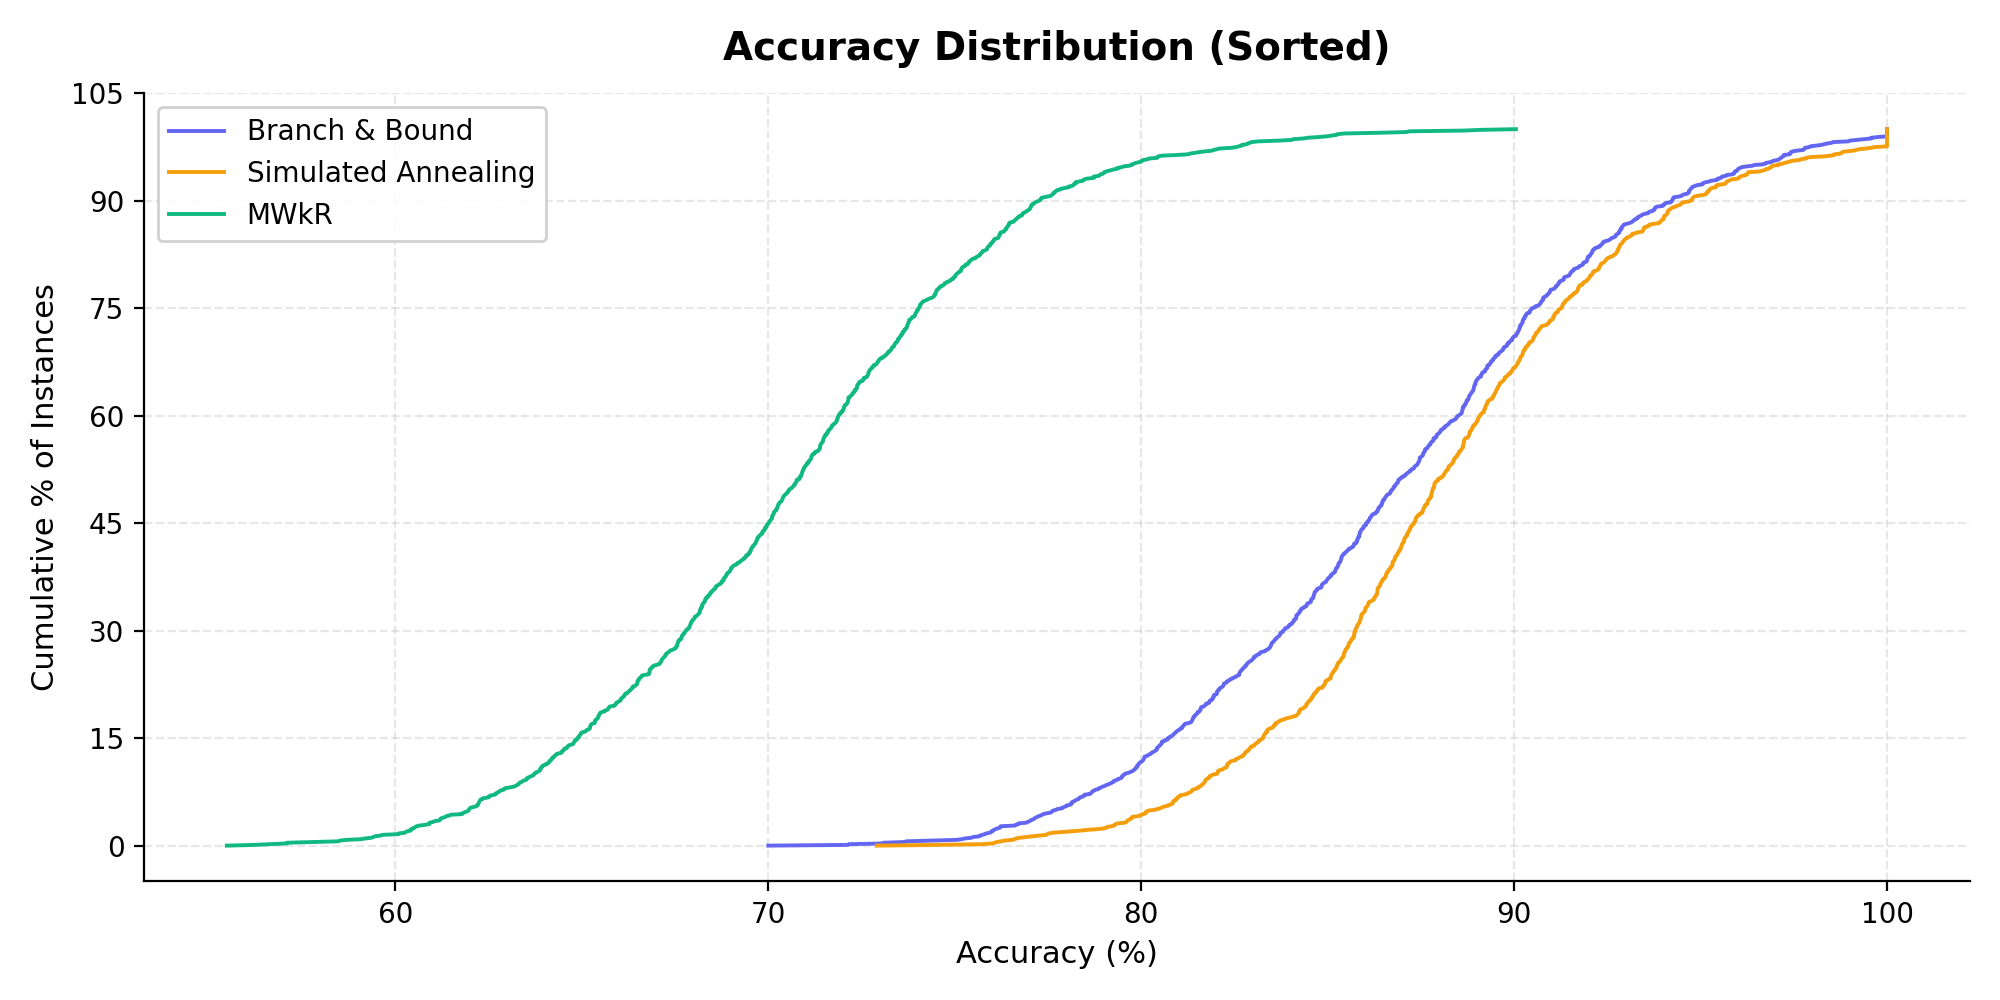
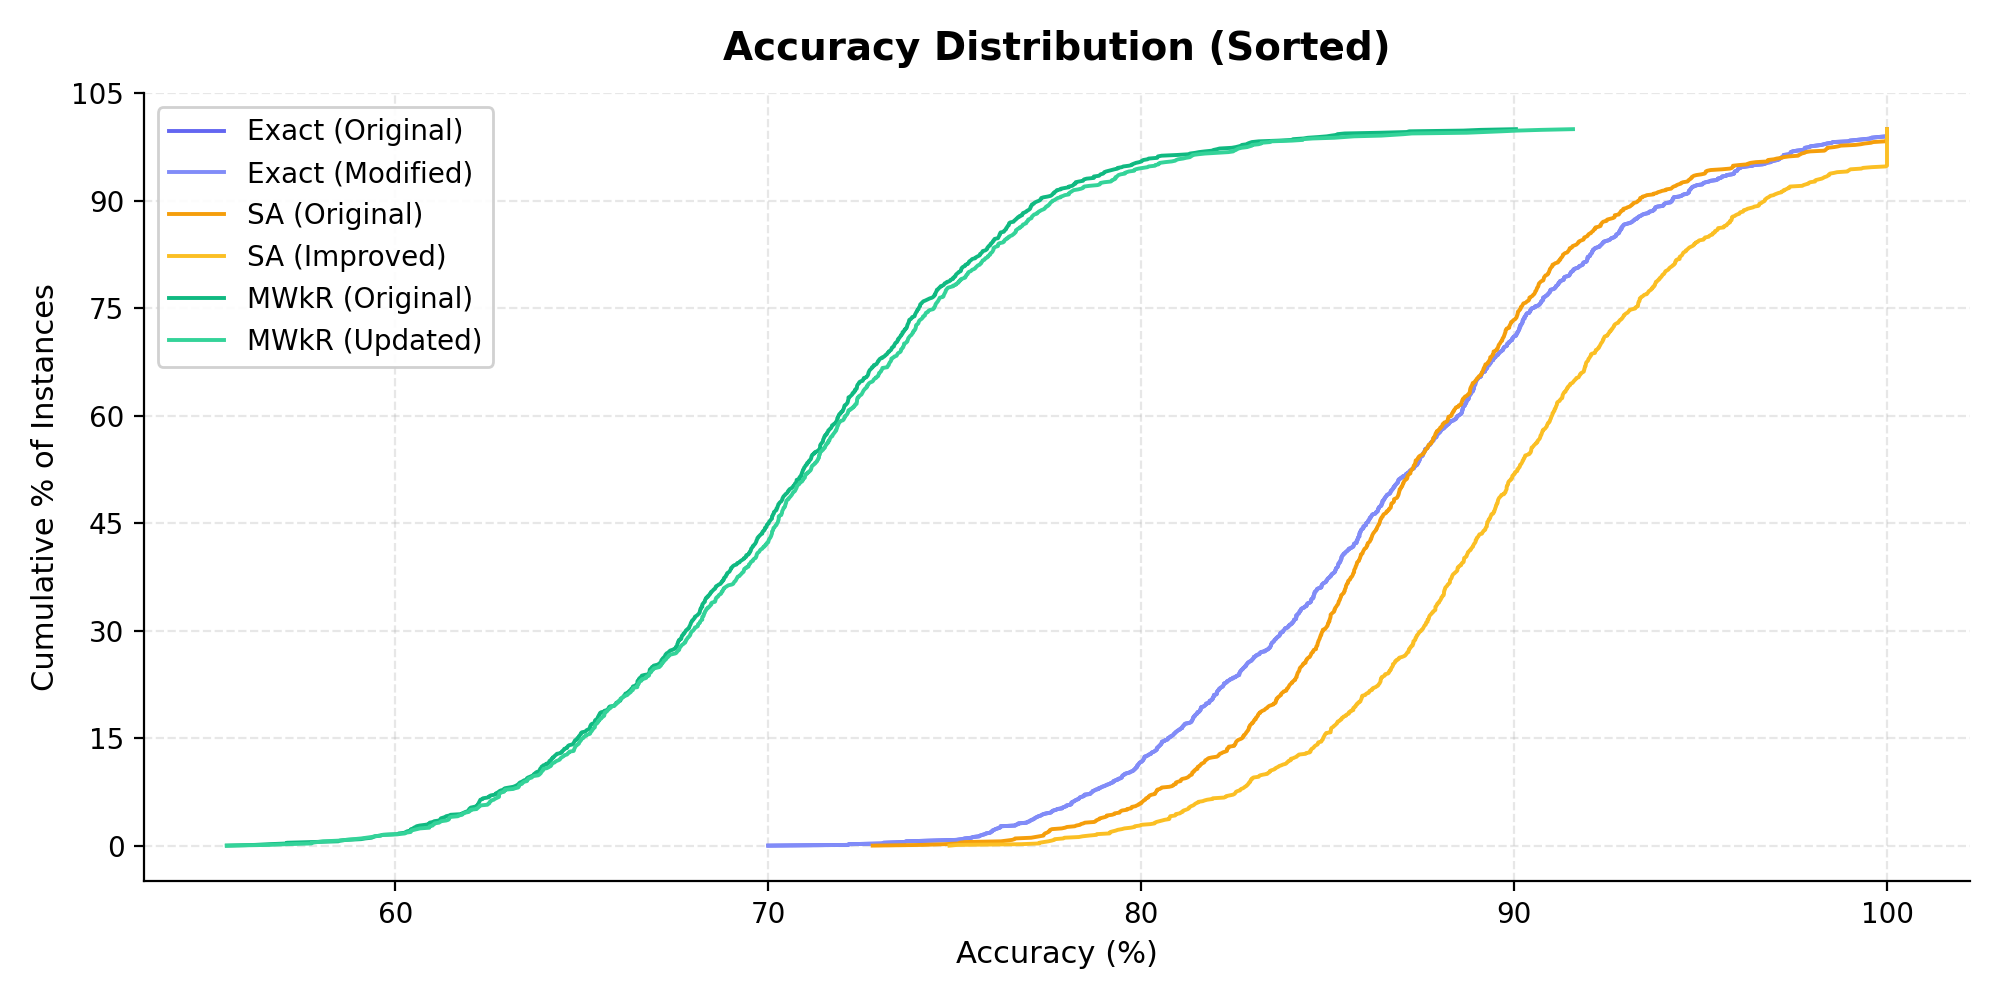
Updated plot.py and generated new plots

diff --git a/plot.py b/plot.py
@@ -30,23 +30,41 @@ import numpy as np
 # ──────────────────────────────────────────────────────────────
 
 METHODS = {
-    "Branch & Bound": {
+    "Exact (Original)": {
         "csv": "JSSP-Exact/results.csv",
         "acc_col": "accuracy",
         "time_col": "time_required(sec)",
         "color": "#6366f1",       # indigo-500
     },
-    "Simulated Annealing": {
-        "csv": "JSSP-SA/results.csv",
+    "Exact (Modified)": {
+        "csv": "JSSP-Exact/results_modified.csv",
+        "acc_col": "accuracy",
+        "time_col": "time_required",
+        "color": "#818cf8",       # indigo-400
+    },
+    "SA (Original)": {
+        "csv": "JSSP-SA/results_original.csv",
         "acc_col": "accuracy",
         "time_col": "time_required",
         "color": "#f59e0b",       # amber-500
     },
-    "MWkR": {
-        "csv": "JSSP-MWkR/results.csv",
+    "SA (Improved)": {
+        "csv": "JSSP-SA/results_improved.csv",
         "acc_col": "accuracy",
         "time_col": "time_required",
+        "color": "#fbbf24",       # amber-400
+    },
+    "MWkR (Original)": {
+        "csv": "JSSP-MWkR/results.csv",
+        "acc_col": "accuracy",
+        "time_col": "runtime_seconds",
         "color": "#10b981",       # emerald-500
+    },
+    "MWkR (Updated)": {
+        "csv": "JSSP-MWkR/results_updated.csv",
+        "acc_col": "accuracy",
+        "time_col": "runtime_seconds",
+        "color": "#34d399",       # emerald-400
     },
 }
 
@@ -112,10 +130,11 @@ def plot_avg_time(data):
                 fontweight="semibold")
 
     _apply_style(ax, "Average Runtime per Instance", "Time (seconds)")
+    ax.tick_params(axis='x', rotation=90)
     fig.tight_layout()
     fig.savefig(os.path.join(PLOT_DIR, "avg_time_comparison.png"), dpi=200)
     plt.close(fig)
-    print("  ✓ avg_time_comparison.png")
+    print("  * avg_time_comparison.png")
 
 
 # ──────────────────────────────────────────────────────────────
@@ -140,10 +159,11 @@ def plot_avg_accuracy(data):
 
     _apply_style(ax, "Average Accuracy per Instance", "Accuracy (%)")
     ax.set_ylim(0, 105)
+    ax.tick_params(axis='x', rotation=90)
     fig.tight_layout()
     fig.savefig(os.path.join(PLOT_DIR, "avg_accuracy_comparison.png"), dpi=200)
     plt.close(fig)
-    print("  ✓ avg_accuracy_comparison.png")
+    print("  * avg_accuracy_comparison.png")
 
 
 # ──────────────────────────────────────────────────────────────
@@ -212,7 +232,7 @@ def plot_instance_accuracy(data):
     fig.tight_layout()
     fig.savefig(os.path.join(PLOT_DIR, "per_instance_accuracy.png"), dpi=200)
     plt.close(fig)
-    print("  ✓ per_instance_accuracy.png")
+    print("  * per_instance_accuracy.png")
 
 
 # ──────────────────────────────────────────────────────────────
@@ -239,7 +259,7 @@ def plot_instance_time(data):
     fig.tight_layout()
     fig.savefig(os.path.join(PLOT_DIR, "per_instance_runtime.png"), dpi=200)
     plt.close(fig)
-    print("  ✓ per_instance_runtime.png")
+    print("  * per_instance_runtime.png")
 
 
 # ──────────────────────────────────────────────────────────────
@@ -267,7 +287,7 @@ def plot_sorted_accuracy(data):
     fig.tight_layout()
     fig.savefig(os.path.join(PLOT_DIR, "accuracy_distribution.png"), dpi=200)
     plt.close(fig)
-    print("  ✓ accuracy_distribution.png")
+    print("  * accuracy_distribution.png")
 
 
 # ──────────────────────────────────────────────────────────────
